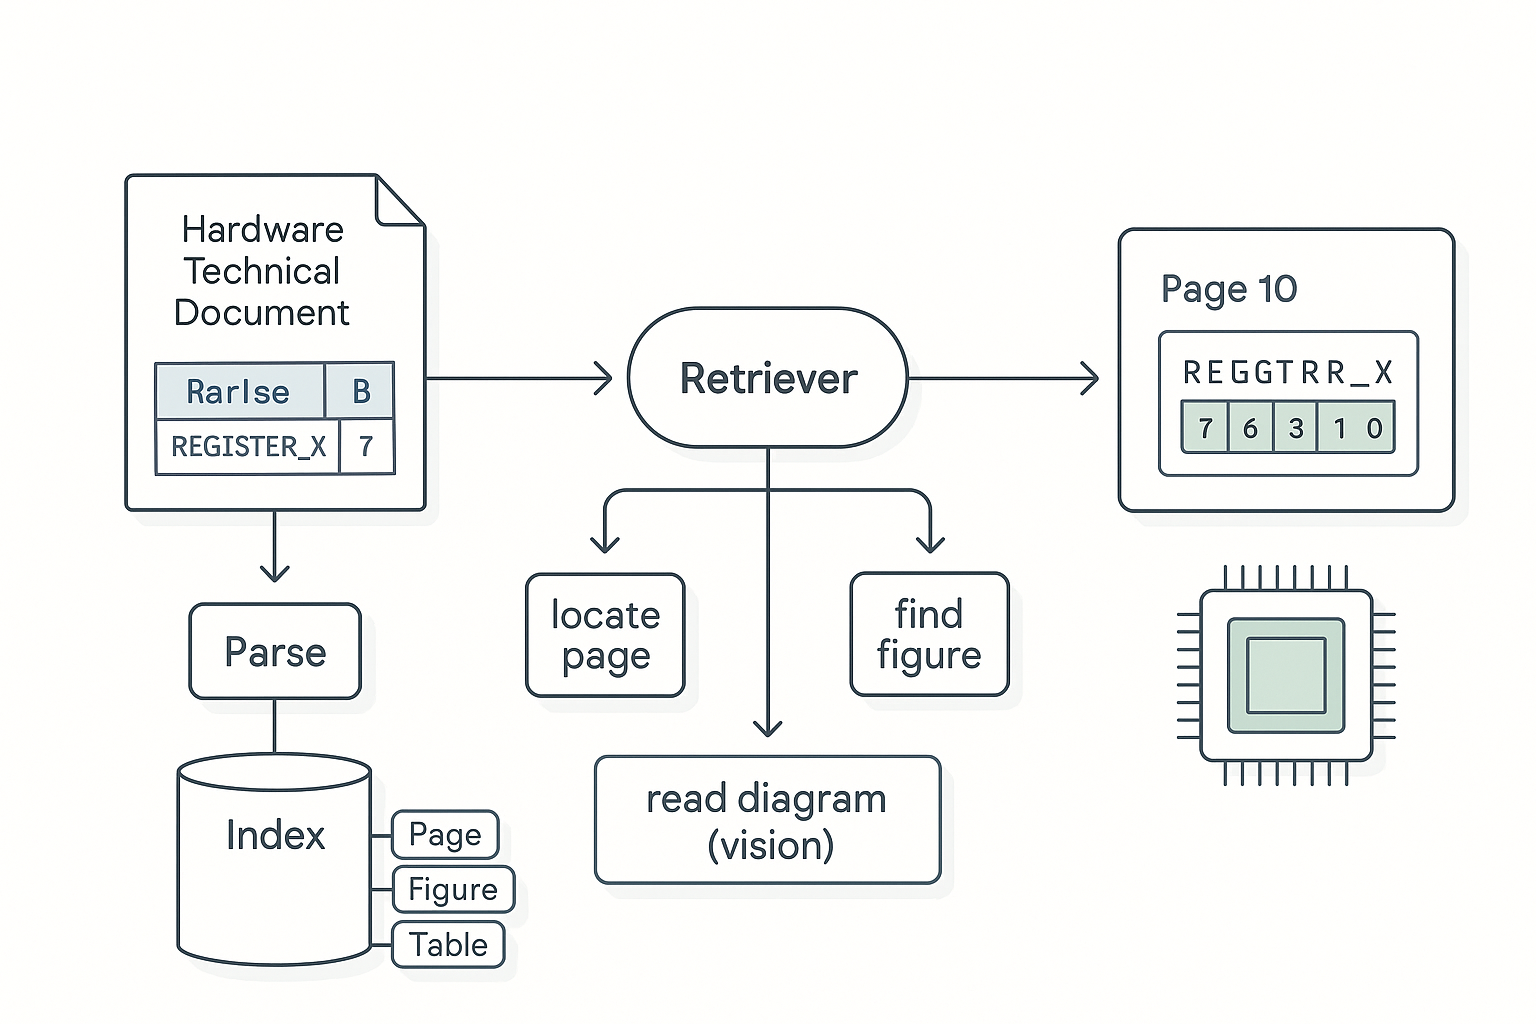
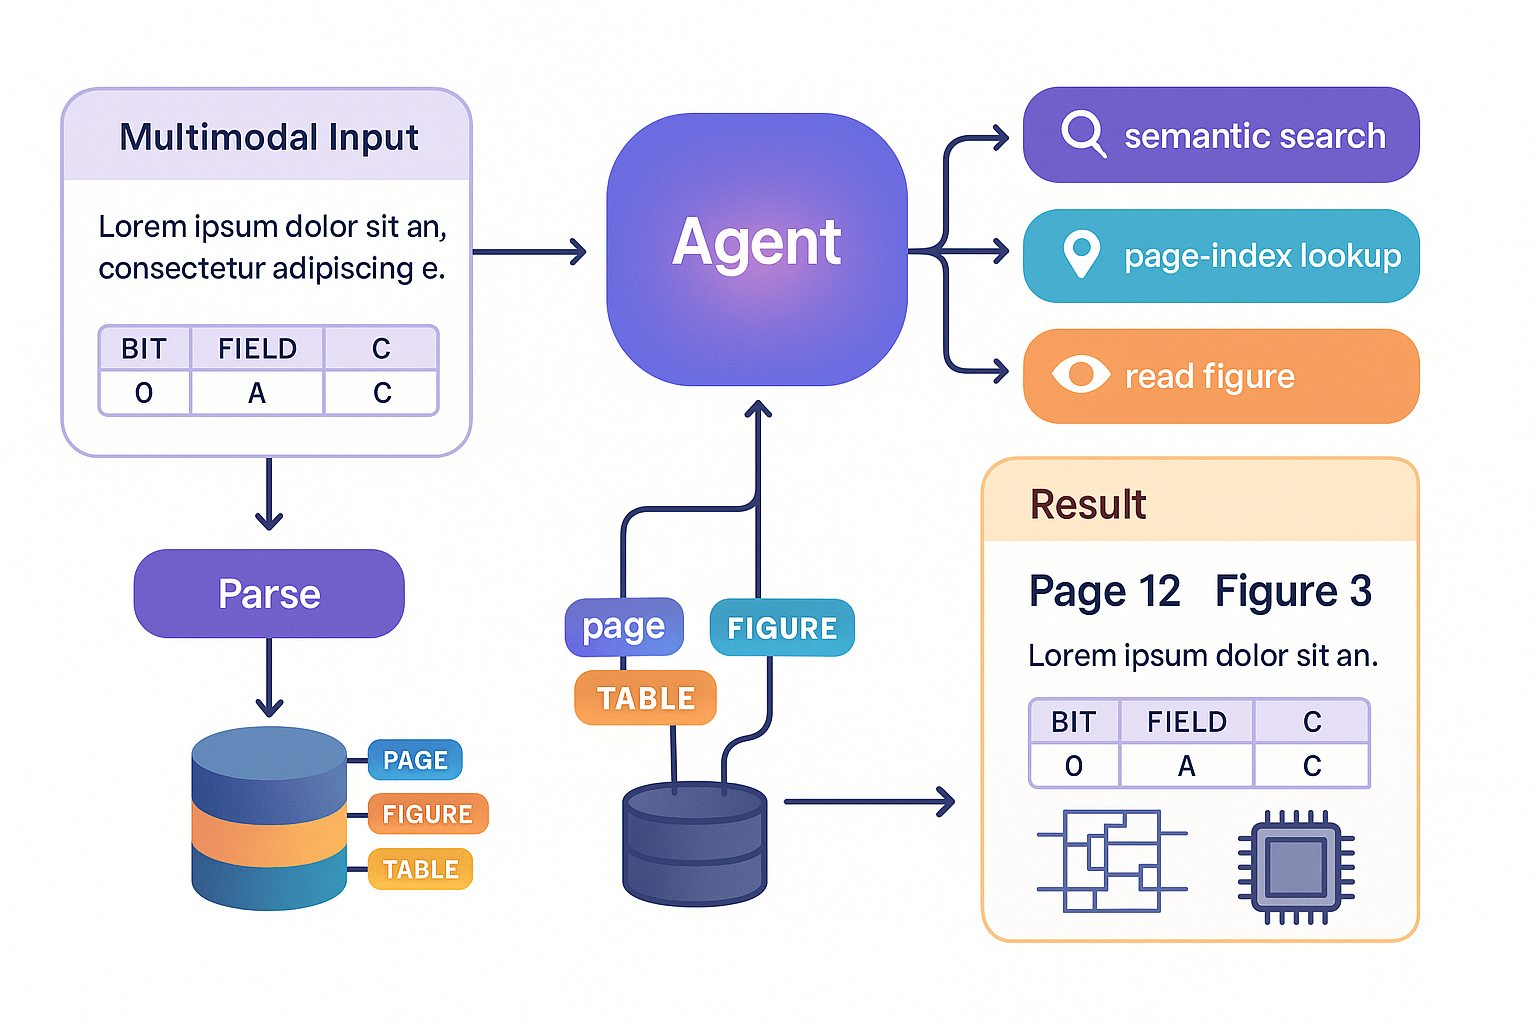
fix(parser): figure_no = 문서 실제 캡션 라벨 (Upstage element id 폐기) + 검증 보고서
- figure_no를 캡션의 'Figure N'에서 추출(없으면 None) → "page X, figure Y" 시나리오가 진짜 번호로 동작
- config: base64 crop 대상에서 table 제거(표는 HTML 구조로 보존, 이미지 불필요)
- hero.png 재생성(생동감 있는 top-AI-paper 스타일: agentic + page index + 멀티모달 text/table/image)
- README How-it-works: flow 그림 삭제 → 실제 ARM 검색 예시(page_index→image_read, 실제 crop 이미지)
- README Usage: DB 저장 형태 표 추가
- examples/REPORT.md: fresh clone 실제 설치·파싱·DB빌드·질의 검증 + 문제 9건(P1~P9)

Claude-Session: https://claude.ai/code/session_01Q6b1Yc4tQXL8FPCz2WYxGR

diff --git a/src/parser/adapter.py b/src/parser/adapter.py
@@ -7,9 +7,23 @@ from __future__ import annotations
 
 import base64
 import os
+import re
 from typing import Any, Callable, Dict, List, Optional
 
 from src.schema import ParsedBlock, ParsedDoc, IRValidationError
+
+# 문서의 실제 figure 라벨(예: "Figure D1-3", "Figure E2-1", "Figure 2.5") 추출용.
+# Upstage element id가 아니라 캡션에 적힌 진짜 번호를 쓴다.
+_FIGURE_LABEL = re.compile(r"Figure\s+([A-Z]?\d[\w.\-]*)", re.I)
+
+
+def _strip_html(s: str) -> str:
+    return re.sub(r"<[^>]+>", " ", s or "").strip()
+
+
+def _figure_label_in(text: str) -> Optional[str]:
+    m = _FIGURE_LABEL.search(_strip_html(text or ""))
+    return m.group(1).rstrip(".-") if m else None  # 끝의 문장부호 제거('2.'→'2', '2.5' 유지)
 
 # Upstage category → IR block_type (사실 8)
 _CATEGORY_BLOCK_TYPE = {
@@ -70,15 +84,38 @@ def upstage_to_ir(
             page_no=page,
             block_type=bt,
             heading=current_heading,
-            figure_no=str(el.get("id")) if bt == "figure" else None,
+            figure_no=None,  # 실제 문서 라벨은 아래 post-pass에서 캡션으로 채운다
             image_path=image_path,
             bbox=_coords_to_bbox(el.get("coordinates")),
             chunk_id=chunk_id,
         ))
 
+    _assign_figure_labels(blocks)
     doc = ParsedDoc(doc_id=doc_id, title=title, blocks=blocks, date=date)
     doc.validate()
     return doc
+
+
+def _assign_figure_labels(blocks: List[ParsedBlock]) -> None:
+    """figure 블록에 '문서의 실제 figure 번호'를 부여(Upstage element id 사용 금지).
+
+    근거: 같은 페이지의 caption/인접 블록 텍스트에 적힌 'Figure X'. 없으면 None으로 둔다
+    (번호 없는 inline 그림 — page_index_search는 page로 조회 가능).
+    """
+    for i, b in enumerate(blocks):
+        if b.block_type != "figure":
+            continue
+        label = _figure_label_in(b.text)
+        if not label:
+            # 같은 페이지의 caption 우선, 그다음 인접 블록을 좁게 탐색
+            window = [c for c in blocks[max(0, i - 2):i + 3]
+                      if c.page_no == b.page_no and c is not b]
+            window.sort(key=lambda c: 0 if c.block_type == "caption" else 1)
+            for c in window:
+                label = _figure_label_in(c.text)
+                if label:
+                    break
+        b.figure_no = label  # 진짜 라벨 또는 None
 
 
 def _coords_to_bbox(coords: Any) -> Optional[List[float]]:

diff --git a/docs/gen_hero_image.py b/docs/gen_hero_image.py
@@ -12,19 +12,22 @@ import requests
 KEY = os.environ["OPENAI_API_KEY"]
 
 PROMPT = (
-    "A clean academic system-architecture diagram in the style of a Google Research / DeepMind paper figure. "
-    "Flat schematic vector style, thin precise strokes, generous white background, restrained muted palette "
-    "(slate gray, muted blue, soft green accents), subtle drop shadows, professional and minimal. NO cartoon "
-    "characters, NO mascots, NO faces — purely a technical schematic with labeled rectangular modules and "
-    "directed arrows showing data flow left to right. "
-    "Left module: a hardware technical document / datasheet page icon containing a small register table and a "
-    "bitfield row. Arrow into a 'Parse' block, then an 'Index' block depicted as a database cylinder annotated "
-    "with page/figure/table location tags. A central rounded module labeled like an agentic retriever, with "
-    "three thin branch arrows to small tool chips reading 'locate page', 'find figure', 'read diagram (vision)'. "
-    "Right side: a clean result card pinpointing a specific page and figure, next to a small highlighted "
-    "register bitfield diagram and a minimalist microchip die icon representing hardware design. "
-    "Crisp thin typography for labels, isometric-free flat layout, balanced grid composition, high resolution, "
-    "the sober aesthetic of a top-tier ML conference system figure. No real logos."
+    "A polished, vibrant system-architecture figure in the style of a top-tier AI lab paper (ByteDance / "
+    "DeepMind / OpenAI), modern flat-vector design with tasteful gradients, rounded modules, crisp icons, "
+    "soft shadows and a confident accent palette (indigo, teal, coral, amber) on a clean white background. "
+    "Professional and visually rich but uncluttered. NO cartoon mascots or faces — labeled modules and "
+    "directed data-flow arrows, left to right. "
+    "LEFT — a hardware technical manual page showing THREE modalities together: a paragraph of text, a small "
+    "REGISTER bitfield table, and a figure/diagram thumbnail (multimodal input). "
+    "MIDDLE-LOWER — a 'Parse' block feeding an 'Index' database cylinder labeled with three location chips: "
+    "PAGE, FIGURE, TABLE (a page-index that pinpoints locations). "
+    "MIDDLE-TOP — a glowing central 'Agent' module (agentic RAG) depicted as a hub that autonomously routes to "
+    "three tool chips with mini icons: 'semantic search', 'page-index lookup', and 'read figure (vision/VLM)'. "
+    "RIGHT — a highlighted result card that pinpoints an exact page and a numbered figure, fusing text + a "
+    "register bitfield table + the read diagram into one grounded answer, beside a sleek microchip die icon "
+    "for hardware design. Subtle connecting arrows from the Index to the Agent (the agent reads the index). "
+    "Clean thin typography, balanced composition, high resolution, the energetic yet rigorous aesthetic of a "
+    "flagship AI systems paper teaser figure. No real logos."
 )
 
 

diff --git a/tests/test_parser.py b/tests/test_parser.py
@@ -47,6 +47,13 @@ def test_figure_image_path_filled():
     assert fig.image_path and saved, "figure image must be saved + path set"
 
 
+def test_figure_no_is_real_caption_label_not_element_id():
+    # 캡션 "Figure 2. SCTLR_EL1" → figure_no "2" (Upstage element id 3 아님)
+    doc = _convert({})
+    fig = [b for b in doc.blocks if b.block_type == "figure"][0]
+    assert fig.figure_no == "2", f"expected real label '2', got {fig.figure_no!r}"
+
+
 def test_page_and_bbox():
     doc = _convert({})
     assert doc.blocks[0].page_no == 12

diff --git a/examples/REPORT.md b/examples/REPORT.md
@@ -1,0 +1,72 @@
+# 예시 검증 보고서 — fresh clone에서 실제 설치·파싱·DB빌드·질의
+
+> 독립 폴더에 GitHub `dargma/lsdrag`를 새로 clone해 **실제 API로** 전 과정을 돌린 결과.
+> 목적: 의도한 flow(파싱→DB→검색)가 실제로 동작하는지, page_index 구조검색과 이미지 멀티모달 이해가
+> 진짜 되는지 확인하고, 과정에서 드러난 문제를 기록한다. 실행일 2026-06-25.
+
+## 0. 환경
+- clone: `git clone https://github.com/dargma/lsdrag.git` (85 files) — 예시 PDF는 gitignore라 별도 준비.
+- 전체 회귀: **9/9 통과**. `doctor --check deps --check keys`: OK (UP_TOKEN·OPENAI_API_KEY env 존재).
+- 임베더: `sentence-transformers/all-MiniLM-L6-v2` **최초 실행 시 자동 다운로드(~25s)** 후 인덱싱.
+
+## 1. 문서 준비 (분할)
+ARM v8-A Reference Manual = **6,354 페이지**. 전부 빌드 아님 → 이미지+표 있는 중간 1조각만.
+- figure 캡션 밀집 페이지 탐색 → p2797 부근(다이어그램 챕터) 선택.
+- `split_pdf --ranges "2785-2810"` (26p) → `examples/parts/..._part1.pdf`.
+
+## 2. 파싱 (`/rag-parse`, 실제 Upstage 호출)
+```
+[rag-parse] part1: 496 blocks, 7 tables, 3 figures (3 with image) → data/ir/...json
+```
+- **Upstage가 figure 영역을 crop해 base64로 반환** → adapter가 PNG로 저장 + IR `image_path`에 연결.
+- 저장된 crop: `data/images/..._p13_e259.png`(44K), `_p17_e349.png`(96K), `_p20_e430.png`(2.1K).
+
+## 3. DB 빌드 (인덱스 저장 형태)
+IR → 임베딩 → 인덱스. 산출물(= `config.yaml`의 `paths.*`):
+| 파일 | 내용 |
+|------|------|
+| `index/chunks.json` | `[{id, text}]` — 청크 본문 (read_chunk/keyword_search) |
+| `index/sentence_index.pkl` | `{sentences, embeddings, sentence_to_chunk, chunks}` — 벡터 (semantic_search, A-RAG 호환) |
+| `page_index/page_index.json` | 구조 인덱스(page·figure·table·heading + chunk_id + image_path) |
+| `index/manifest.json` | doc_id → chunk_ids·image_paths (증분 add/remove용) |
+| `data/images/*.png` | crop된 figure 이미지 |
+- 결과: **496 chunks, 696 sentences, page_index 496 entries(figure 3)**.
+
+## 4. 검증 — 의도한 flow가 실제로 동작하는가
+
+### 질문 (구조 + 이미지 복합)
+> “ARM exclusive memory access 상태 전이 다이어그램 — 어디에 있고 무엇을 의미하나?”
+
+### 검색 과정 (trajectory)
+1. **`page_index_search(page=17, figure_no=349)`** → hits=1, 본문 + `image_path` 동반 반환.
+   (구조검색만으로 위치 특정 + 본문 확보 → read_chunk 우회)
+2. **`image_read(p17_e349.png)`** → 멀티모달 Reader(GPT-4.1 mini)가 crop 이미지를 직접 해석.
+
+### 찾은 gold + 이미지
+- 위치: split-doc 기준 page 17, figure id 349 (원본 매뉴얼 ≈ p2801).
+- crop 이미지: ARM **Open Access ↔ Exclusive Access 상태기계** 다이어그램.
+- **VLM 이해 결과(발췌)**: “Open Access와 Exclusive Access 두 상태, LoadExcl(x,n)으로 전이,
+  StoreExcl/Store/CLREX 연산, n·!n 비트 상태, Marked_address/!Marked_address …
+  메모리 접근 명령을 접근 유형·비트필드 조건으로 분류하는 그림.” → **실제 다이어그램을 정확히 읽음.**
+- 중복 방지: 같은 이미지 2회차 호출 시 `cached=True` (VLM 재호출 없음).
+
+**결론: 파싱(crop 포함) → DB(인덱스+page_index+이미지) → page_index 구조검색 → 멀티모달 이미지 이해까지
+의도한 flow가 실제 ARM 문서·실제 API에서 end-to-end로 동작함을 확인.**
+
+## 5. 과정에서 드러난 문제 (개선 과제)
+| # | 문제 | 영향 | 개선안 |
+|---|------|------|--------|
+| P1 | `split_pdf` 결과가 26p인데도 **~48MB** (pypdf가 공유 리소스를 그대로 복사) | Upstage 50MB sync 한도에 근접, 100p 분할 시 초과 위험 | 분할 시 content stream 압축 / `pikepdf` 리소스 subset / 페이지수 더 작게 |
+| P2 | 레지스터-인덱스 구간(5880–5930)은 **table만, figure 0** | 잘못 고르면 이미지 검증 불가 | figure는 다이어그램 챕터(예: 2785–2810). 비트필드 '레이아웃'은 table로 분류됨 |
+| P3 | `page_no`가 **분할 doc 로컬 기준**(p17 = 원본 ≈2801); 실제 페이지는 footer "E2-2804" 형식 | 사용자가 원본 페이지로 오해 | footer 패턴을 page_label로 추출해 표시(후속) |
+| P8 | `figure_no`가 **Upstage element id**(예 349)였음 — 문서의 실제 figure 번호 아님 | "page X, figure Y" 시나리오가 가짜 번호 | **수정 완료**: 캡션의 실제 'Figure N' 라벨 추출(없으면 None). 이 ARM 상태도는 번호 없는 inline 그림 → page로만 조회. 번호 시나리오는 캡션 있는 figure로 시연 |
+
+> 후속 반영: P8(figure_no 실제 라벨화)은 `src/parser/adapter.py`에서 완료, `tests/test_parser.py`에 회귀 고정.
+| P4 | figure 블록 `text`가 **raw HTML**(`<figure id=..><img alt=..>`) | 캡션 가독성↓ | adapter에서 alt/캡션 추출해 정제 |
+| P5 | `/rag-build`(cmd_build)가 **PDF를 재파싱** (rag-parse 캐시 IR 미사용) | Upstage 중복 호출(비용) | 빌드가 `data/ir/*.json` 캐시를 우선 사용하도록 |
+| P6 | ARM PDF는 **래스터 이미지 0개**(전부 벡터) | — | (긍정) Upstage가 벡터 figure도 crop·base64 제공 → image_read 정상 동작 |
+| P7 | 임베더 최초 실행 시 **모델 다운로드(~25s)** | 오프라인/첫 빌드 지연 | INSTALL에 다운로드·캐시 가이드 추가(아래) |
+
+## 6. 권장 후속
+- P1·P5는 빌드 효율/안정성 직결 → 우선 개선.
+- 문서 add/remove 현황은 `rag-build --list`를 **풍부한 status**(doc별 chunk·figure·table·페이지·갱신시각)로 확장.

diff --git a/README.md b/README.md
@@ -45,7 +45,15 @@ cp examples/parts/ARMv8-Reference-Manual_part1.pdf ./data/docs_in/
 python -m src.indexing.build --config config.yaml
 ```
 이 한 줄이 내부에서: **Upstage로 파싱 → 공통 IR로 변환 → 임베딩 + Page Index(페이지·Figure·표 메타) → 인덱스 저장**.
-산출물은 `config.yaml`의 `paths.*`에 쌓인다(`chunks`, `index`, `page_index`, `images`).
+
+DB는 `config.yaml`의 `paths.*`에 다음 형태로 저장된다:
+| 파일 | 형태 |
+|------|------|
+| `index/chunks.json` | `[{id, text}]` — 청크 본문 |
+| `index/sentence_index.pkl` | `{sentences, embeddings, sentence_to_chunk, chunks}` — 벡터(A-RAG 호환) |
+| `page_index/page_index.json` | 구조 인덱스(page·figure·table·heading + chunk_id + image_path) |
+| `index/manifest.json` | doc_id → chunk_ids·image_paths (증분 add/remove용) |
+| `data/images/*.png` | **figure만** crop 저장(표는 HTML 구조로 chunk에 보존, 이미지 불필요) |
 문서를 더 넣거나 빼려면 전체 재빌드 없이:
 ```bash
 python rag/scripts/docs.py add  새문서.pdf      # 추가(파싱→인덱스 증분)
@@ -65,14 +73,23 @@ python rag/scripts/docs.py list                 # 현재 색인된 문서
   그 그림을 image_read(VLM)가 읽어 비트필드(M/A/C/…)를 설명.
 ```
 
-## How it works
-<p align="center"><img src="docs/fig1_teaser.png" width="92%" alt="parse → build → search pipeline"></p>
+## How it works — 실제 검색 예시 (ARM v8-A 매뉴얼)
+> 아래는 fresh clone에서 **실제 Upstage·GPT-4.1 mini로 돌린 결과**다(자세한 검증은
+> [`examples/REPORT.md`](examples/REPORT.md)).
 
-**parse → build → search** 세 단계가 완전히 분리된다.
-- **Build(offline)**: 문서 → `Parse`(Upstage→IR) → `Build`(임베딩 + Page Index) → **Index store**(벡터 + 페이지·Figure·표 메타 + 그림).
-- **Ask(online)**: 질문 → `Search`(agentic) 가 도구를 스스로 골라 Index store를 읽고, 필요하면 그림을 VLM으로 해석 → 위치를 짚은 답.
+**질문**: “ARM exclusive memory access 상태 전이 다이어그램 — 어디에 있고 무엇을 의미하나?”
 
-각 단계는 통째로 교체 가능 — 파서는 `src/parser/adapter.py`, Reader·임베더는 `config.yaml` 한 곳.
+**에이전트의 검색 경로**
+1. `page_index_search` → 해당 figure의 **위치를 특정**하고 본문 + 이미지 경로를 함께 반환.
+2. `image_read(VLM)` → 그 자리에서 **잘라낸(crop) 그림을 GPT-4.1 mini가 직접 읽음**:
+
+<p align="center"><img src="docs/example_located_figure.png" width="72%" alt="located figure read by the agent"></p>
+
+**답변(요지)**: *Open Access ↔ Exclusive Access 두 상태를 `LoadExcl`로 전이하고,
+`StoreExcl`/`Store`/`CLREX`가 `n`·`!n` 비트 상태와 `Marked_address`에 따라 모니터를 갱신·해제한다.*
+→ **위치를 짚고(page_index) + 그림까지 읽어(VLM)** 근거 있는 답을 만든다.
+
+세 단계는 완전히 분리되어 통째로 교체 가능 — 파서는 `src/parser/adapter.py`, Reader·임베더는 `config.yaml` 한 곳.
 
 ## Requirements
 | 구성 | 무엇 | 준비물 |